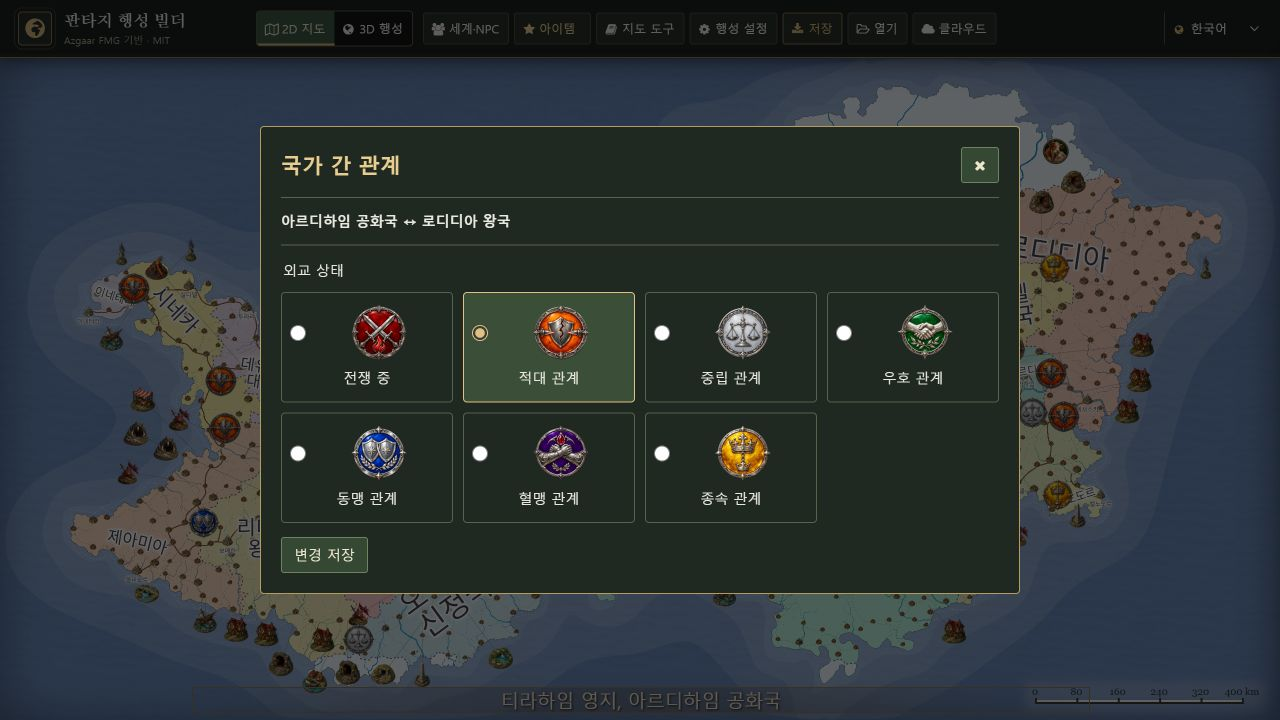
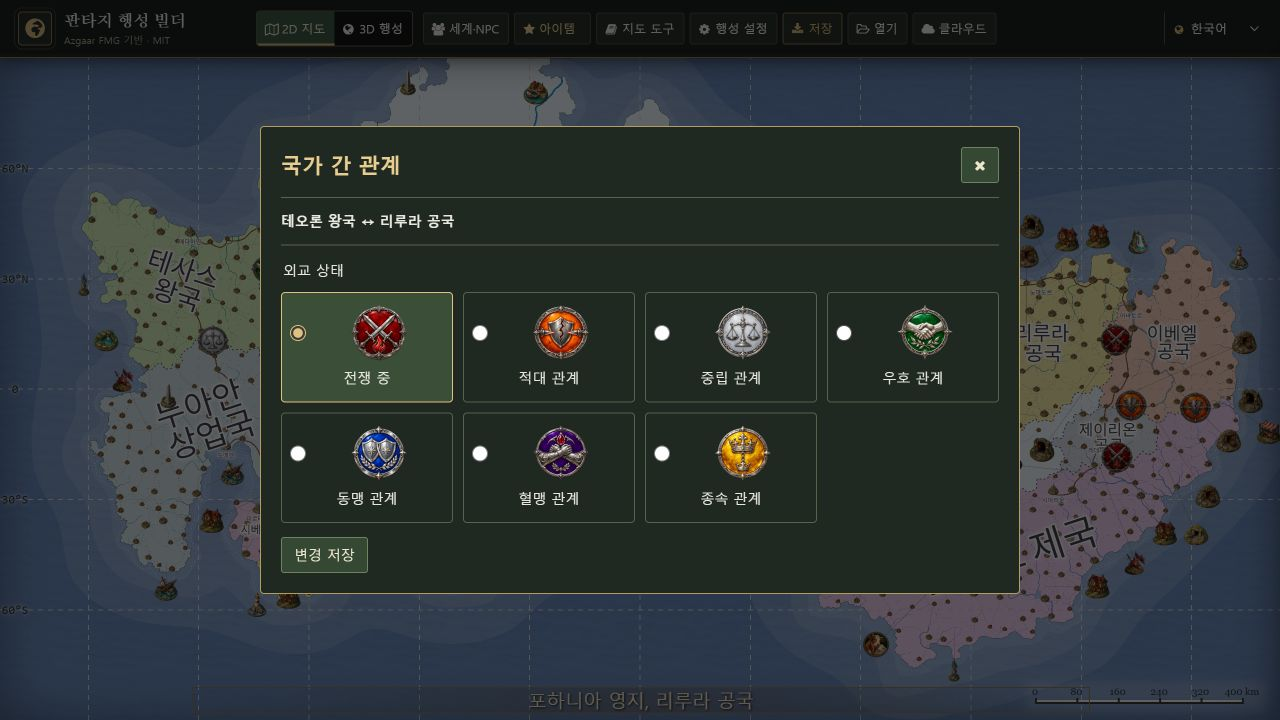
fix: refresh item styles and record public verification

diff --git a/src/index.html b/src/index.html
@@ -31,7 +31,7 @@
     <link rel="stylesheet" href="settlement-tools.css?v=1" />
     <link rel="stylesheet" href="planet-builder.css?v=npc-portrait-1" />
     <link rel="stylesheet" href="marker-notes.css?v=1" />
-    <link rel="stylesheet" href="item-library.css?v=2" />
+    <link rel="stylesheet" href="item-library.css?v=3" />
     <link rel="stylesheet" href="world-data-export.css?v=1" />
     <link rel="stylesheet" href="border-diplomacy.css?v=1" />
     <!-- inline css for loading screen -->

diff --git a/CHANGELOG.md b/CHANGELOG.md
@@ -10,6 +10,7 @@
 - 유니크 또는 상징적 유일성 아이템에 희귀도별 기술 보정과 제한 사용 추가 효과를 부여합니다. 기본 SRD 규칙과 구분한 앱 창작 특성이며 기존 유니크도 보강합니다. 한·영 표시, 프로젝트 저장, JSON·CSV·인쇄 출력에 포함합니다.
 - 새 아이템의 페이지 선택과 해제한 레퍼런스·던전 보상 연결의 저장 오류를 수정했습니다. 토큰 이미지의 SVG 중복 내장을 제거해 실제 테스트 출력은 약 107MB에서 3.1MB로 감소했습니다.
 - 전체 949개, 공개 회귀 355개, 공개 UI 호환 92개 테스트 통과. 실제 브라우저에서 관계 편집·지도 출력·유니크 수치·체크 왕복·한영 전환·저장 파일을 확인했습니다. 세부 범위와 미검증 항목은 `docs/04-report/border-diplomacy-and-unique-items-2026-10-26.md`에 기록했습니다.
+- 공개 사이트 버전 14에 배포했습니다. 이전 아이템 스타일 캐시를 갱신하고 공개 화면의 한·영 특성 패널과 7종 에셋을 확인했습니다.
 
 ### NPC·아이템 데이터 출력 - 2026-10-25
 

diff --git a/docs/04-report/border-diplomacy-and-unique-items-2026-10-26.md b/docs/04-report/border-diplomacy-and-unique-items-2026-10-26.md
@@ -41,6 +41,12 @@
 - 국경 이미지 포함 SVG 다운로드: 29개 `use`, 7개 내장 이미지 정의. 최적화 전 107,486,445바이트에서 3,104,775바이트로 감소했다. PNG 다운로드도 직접 열어 토큰 렌더링을 확인했다.
 - 모바일 실기기, 3D 행성 텍스처의 이번 토큰 표현, 실제 프린터 및 장기 세션 성능은 별도 검증 대상이다.
 
+## 공개 반영
+
+- 공개 사이트 버전 14 배포 성공. 버전 13 확인 중 발견한 이전 아이템 CSS 캐시 문제를 버전 쿼리 갱신으로 수정했다.
+- 공개 화면에서 추가 특성 패널의 3px 테두리·배경, 한국어 및 영어 수치 문구, 7종 국경 에셋 로딩과 관계 편집창을 확인했다.
+- 공개 주소: https://fantasy-planet-builder.karxion.chatgpt.site/
+
 ## 에셋 및 캡처
 
 - 원본: `public/images/diplomacy/*.png`, 각 1254 x 1254, 투명 배경. 원본 픽셀은 후처리하지 않았다.
